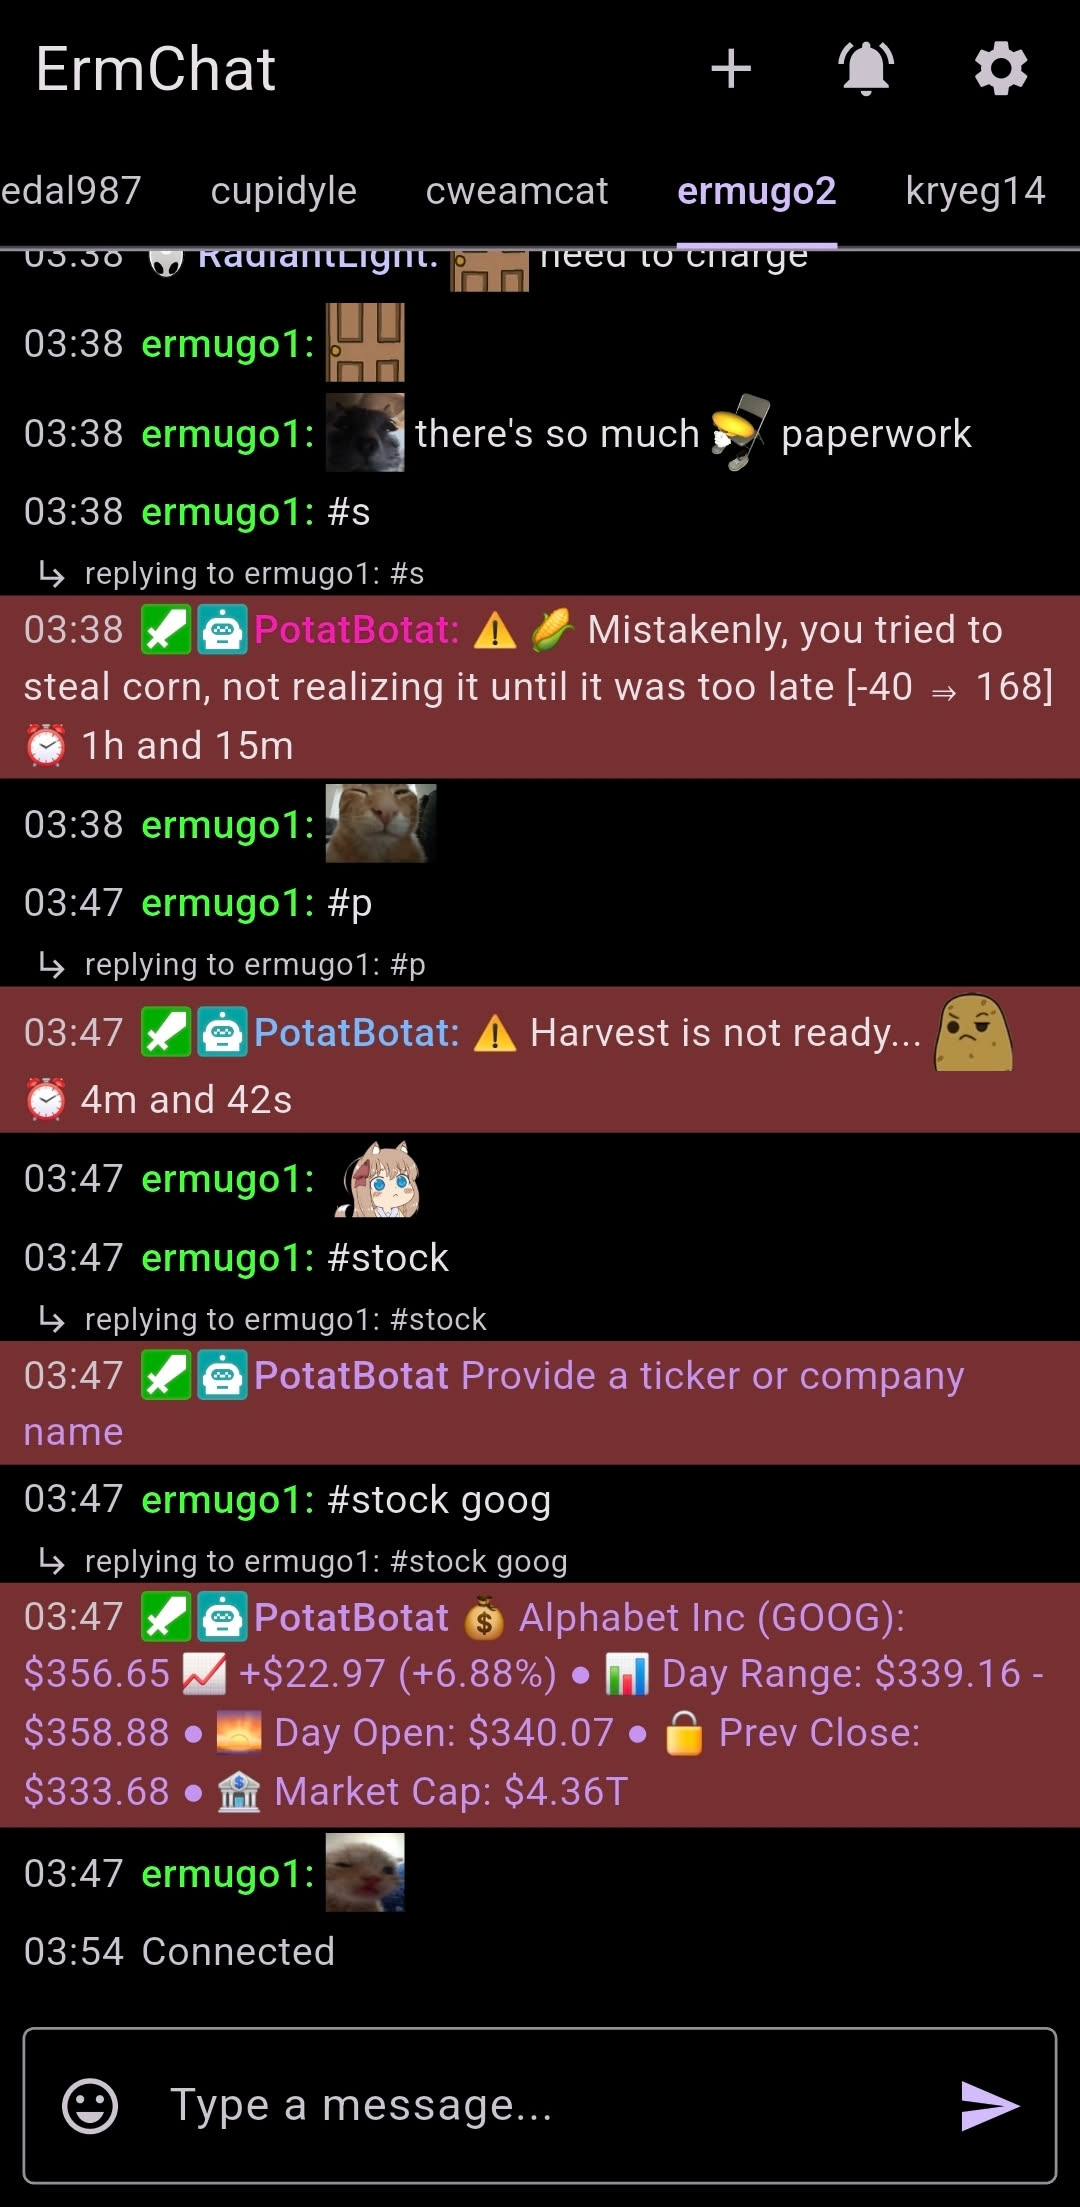
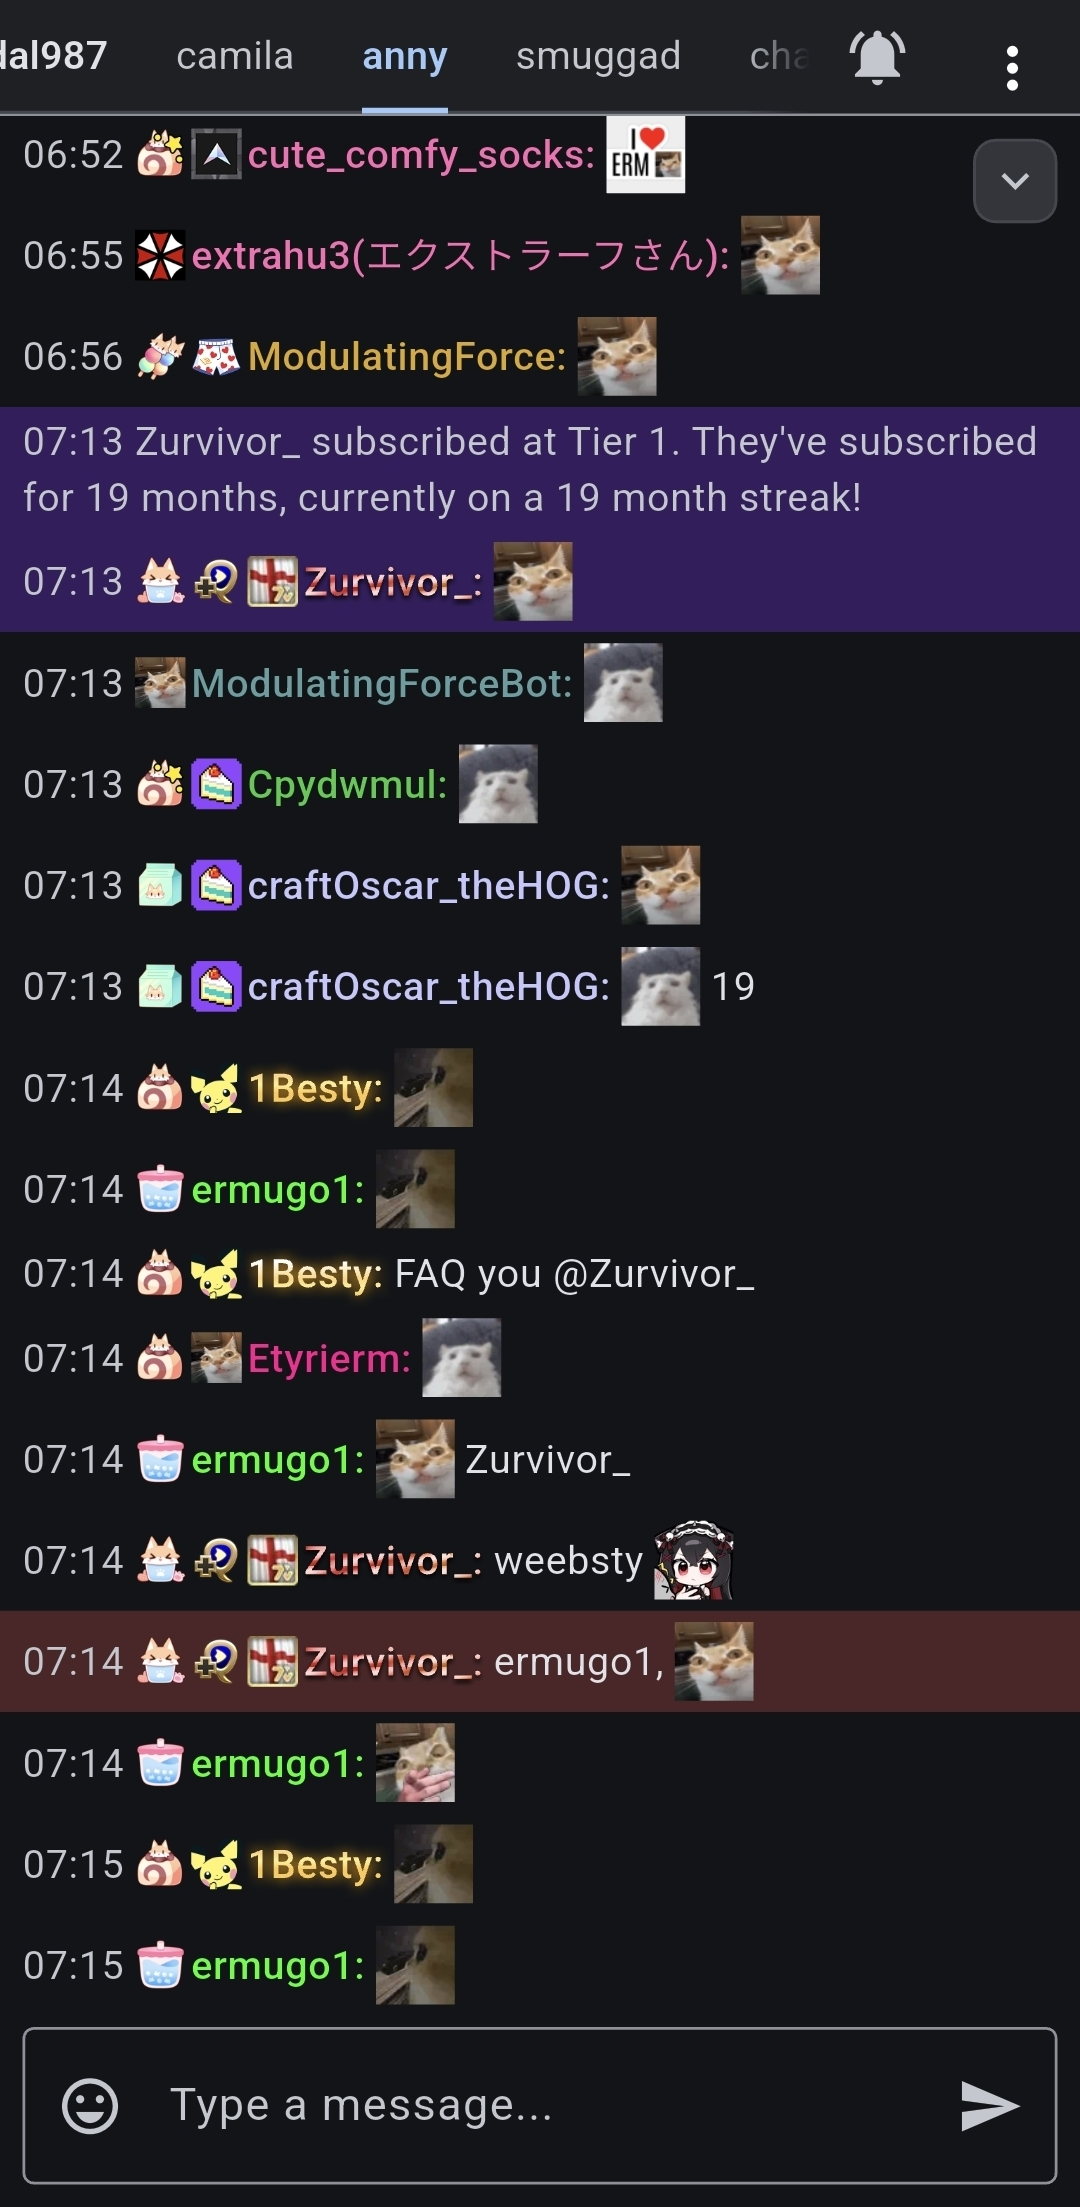
update README

diff --git a/README.md b/README.md
@@ -1,86 +1,107 @@
-# ErmChat
+<p align="center">
+  <img src="assets/erm.png" width="96" alt="ErmChat icon">
+</p>
 
-A mobile Twitch chat app built with Flutter.
+<h1 align="center">ErmChat</h1>
 
-ErmChat is a DankChat-inspired chat client with more features, built for multi-platform. If you've had experience with other chat clients, this one is similar with some fun features stapled onto it, and a bit less polish. I made this because Chatsen didn't have the "feel" I liked, and I wanted a good alternative to it on iOS.
+<p align="center">
+  A Twitch chat app for Android and iOS.
+</p>
 
-Credit to NobleTrash38 / NobleTrash for inspiring this project!
+<p align="center">
+  <a href="https://github.com/banan-guh/ErmChat/releases/latest"><img src="https://img.shields.io/github/v/release/banan-guh/ErmChat?include_prereleases&label=release" alt="Latest release"></a>
+  <img src="https://img.shields.io/badge/platform-Android%20%7C%20iOS-blue" alt="Platforms">
+  <a href="LICENSE"><img src="https://img.shields.io/github/license/banan-guh/ErmChat" alt="License"></a>
+  <a href="https://testflight.apple.com/join/NUUDJ5qY"><img src="https://img.shields.io/badge/iOS_beta-TestFlight-0D96F6" alt="iOS beta on TestFlight"></a>
+  <a href="https://f-droid.org/"><img src="https://img.shields.io/badge/F--Droid-pending-lightgrey?logo=fdroid&logoColor=white" alt="F-Droid: pending"></a>
+  <a href="https://discord.gg/asWuEHW359"><img src="https://img.shields.io/badge/Discord-join-5865F2?logo=discord&logoColor=white" alt="Discord"></a>
+</p>
 
-Check [TODO.md](TODO.md) for the roadmap. Found a bug or want a feature? Open an issue or submit a PR (see [RULES.md](RULES.md) first for commit style and ground rules).
+<p align="center">
+  <a href="https://play.google.com/store/apps/details?id=io.github.bananguh.ErmChat"><img src="assets/badges/google-play.png" height="48" alt="Get it on Google Play"></a>
+  <!-- Add appstore badge when listed (AppStore nobletrash38) -->
+</p>
+
+<p align="center">
+  <img src="fastlane/metadata/android/en-US/images/phoneScreenshots/screenshot1.jpeg" width="190" alt="Chat with a sub notice">
+  <img src="fastlane/metadata/android/en-US/images/phoneScreenshots/screenshot2.jpeg" width="190" alt="Chat with the stream open">
+  <img src="fastlane/metadata/android/en-US/images/phoneScreenshots/screenshot3.jpeg" width="190" alt="Chat with a deleted message and a timeout">
+  <img src="fastlane/metadata/android/en-US/images/phoneScreenshots/screenshot4.jpeg" width="190" alt="Emote settings">
+</p>
 
 ## Features
 
-**Chat**
-- Tabbed multi-channel chat with swipeable views and rearrangeable channel bar
-- Multi-account login with a switcher in settings
-- Messages over IRC
-- Reply threads with inline view (threads persist until last child goes over max msg threshold!! even when they disappear, you can see old threads)
-- Mentions / whispers panel
-- User profiles: tap a username for a bottom sheet with mod actions, follow age, and warning/ban history where you moderate, plus Mention / Whisper / Block / Report
-- System messages for subs, cheers, raids, bans, timeouts, announcements (subs/bits/raids highlight with the accent)
-- Shared chat support with spotlight / fade / hide modes for foreign messages
-- Phrase muting and regex ping rules (hide or highlight by keyword)
-- Slow-mode countdown on the input hint
-- Chat room state below the input (followers-only, emote-only, sub-only, live viewer #)
-- Clickable links, message timestamps with customizable formats
-- Configurable message cutoff and recent-history limit
-- Unread indicators, `/me` actions, message bypass for spam
+**Emote cache:** Novel cache system, so you don't need to re-download emotes every single time you restart the app.
 
-**Emotes & badges**
-- Emotes from Twitch, BTTV, FFZ, and 7TV with zero-width overlay support
-- Per-provider emote visibility toggles
-- Badges for mods, VIPs, subscribers, plus 3rd party badges (BTTV donor, FFZ mod/VIP, 7TV)
-- 7TV animated username paints rendered in chat
-- Emote and username autocomplete
-- Emote menu with provider tabs and a detail sheet (copy / share)
-- 7TV live emote updates via WebSocket
+**Data saver:** With the new emote cache, going on an excursion no longer makes a massive dent in your data. Customizable of course.
 
-**Commands**
-- 41 slash commands routed through the Twitch Helix API: `/ban`, `/timeout`, `/unban`, `/untimeout`, `/color`, `/delete`, `/clear`, `/announce` + color variants, `/mod`, `/vip`, chat modes (`/slow`, `/followers`, `/emoteonly`, `/subscribers`, `/r9kbeta`, `/uniquechat` + off variants), `/shoutout`, `/raid`, `/shield`, `/commercial`, `/marker`, `/w`, `/block`, `/unblock`, and more
-- `/` autocomplete for every command (permissions checked server-side)
-- Command macros with `{1} {2} {n+}` placeholder expansion, stored per account
-- DankChat-style error notices for failures
+**Threads:** Can be saved, and persist for as long as the latest message exists. Revisit old threads whenever you want.
 
-**Broadcaster widgets**
-- Hype train, poll, and prediction cards rendered in a swipeable cutout above chat (for the broadcaster's own channels, read-only)
+**Split links:** Chatters split links to get past filters. ErmChat joins them for you to save a bit of hassle.
 
-**Mod view**
-- Queue (allow/deny with category filter and inline timeout/ban), Activity feed, Users (bans, warnings, flagged users, mod/vip rosters), Modes, unban Requests inbox, public blocked Terms, AutoMod Setup levels
-- Message long-press and user cards expose Timeout / Delete / Warn / Ban / Unban / Shoutout (offline-friendly where you moderate)
-- Channel tab for the broadcaster: banned list, raid/commercial/marker actions, poll/prediction controls, Channel Points queue (rewards this app created are manageable, others read-only)
+**7TV integration:** 7tv name paints are supported, along with personal emotes, and emotes are updated live.
 
-**Customization & settings**
-- Dark mode toggle, true-dark, accent color picker
-- Timestamp format picker, keep-screen-on, custom ping highlights
-- Per-channel chat analytics (total messages, unique chatters, msgs/min, top chatters/emotes/words, bans/timeouts)
-- Background keepalive and mention push notifications (Android ONLY! iOS is still unpolished)
-- EXIF metadata stripped from image uploads before they go out
-- "Connected as {login}" account display, paste-token or browser OAuth login
+**Media embeds:** You can show images from some popular CDNs inline without having to leave the app.
 
-## Getting started (for people who clone the repo for their own use)
+**GIFs:** Official twitch GIFs are supported (view-only).
 
-1. Clone the repo: `git clone <repo-url>`.
-2. Create a Twitch app at https://dev.twitch.tv/console/apps and get a client ID.
-3. Open `lib/twitch_config.dart` and put it there.
-4. NOTE: redirect URI from `lib/twitch_config.dart` must match EXACTLY with what's in your twitch dev console. even / count.
-5. Android: JDK 17, 21, or 26 all work (CI uses Zulu 17), plus the standard
-   Android NDK, then run the app:
-   `flutter run`
-6. iOS: install pods first:
-   `pod install` inside `ios/`, then `flutter run`
+**Compact layout:** For small screens: collapse padding and headers to squeeze a bit more real estate for chat.
 
-`flutter test` and `flutter analyze` need no extra setup.
+**Mod view:** AutoMod queue, unban requests, blocked terms, warnings, suspicious users and a mod activity feed. Broadcasters also get Channel Points redemptions, polls, predictions, raids and markers.
 
-## Note for what the fastlane folder is
+**Chat analytics:** Per channel msgs/min, chatter list, top chatters, most used emotes/words, bans, timeouts.
 
-It's just for the F-droid publication. if you want to clone this and put it on F-droid, you need the changelogs folder to have these txt files:
-10[].txt
-20[].txt
-40[].txt
+**Liquid glass:** (opt-in, experimental, it's quite heavy so beware).
 
-(the [] is the "+N" you have in pubspec, e.g. v0.5.8+14). Make sure you update this along with pubspec every update you push.
-You can delete old changelogs, they aren't necessary to keep around. Reason for 3 different changelogs is just the split-ABI structure.
+**Performance:** A lot of work has gone into optimizing for battery life and fps. However, this is a heavy app, so there are lots of settings to disable or reduce the amount of battery-heavy work.
+
+**Accessibility:** TTS, line highlighting, font size, emote freeze. I'll get to translations soon, and maybe a reduced motion mode.
+
+<details>
+<summary><b>Everything else</b></summary>
+
+- Emotes from Twitch, BTTV, FFZ and 7TV, third-party badges
+- Multiple channels in swipeable tabs, multiple accounts
+- Mentions and whispers panel, user cards with a list of messages from that user
+- Slash commands with autocomplete, and your own command macros
+- Highlights and pings (customizable)
+- Shared chat with spotlight feature (see own chat better, customizable in settings)
+- Stream player with picture-in-picture
+- Image uploads with EXIF stripping
+- Chat history on join, slow mode / timeout countdown, live channel status
+- Backgrounding and mention notifications (Android only, iOS coming soon)
+- Themes, true black, accent colors, timestamp formats
+- Lots of customizability in settings
+
+</details>
+
+## Install
+
+**Android:** get it on [Google Play](https://play.google.com/store/apps/details?id=io.github.bananguh.ErmChat), or download the universal APK from [Releases](https://github.com/banan-guh/ErmChat/releases/latest). Pending F-Droid.
+
+**iOS:** join the beta on [TestFlight](https://testflight.apple.com/join/NUUDJ5qY). You need TestFlight (obviously). An App Store release is planned.
+
+No account needed to read chat anonymously, but signing in is recommended for the full feature set.
+
+## Privacy
+
+ErmChat communicates directly with Twitch servers, and uses (anonymous) emote providers / recent-messages for chat history. Media uploader is third-party. Details: [privacy policy](https://banan-guh.github.io/ErmChat/).
+
+## Feedback
+
+Any feedback, no matter what, is VERY much appreciated. You have multiple ways to give it:
+
+- Create an issue on GitHub (here), bugreport or feature request
+- Create an issue on [Discord](https://discord.gg/asWuEHW359), or even just send something in general
+- Come to my twitch channel (not live, only chat) at #ermugo2 and tell me directly - join the channel in ermchat!
+- Send an email to kuhwalri.contact@gmail.com
+
+An in-app bug reporter is on the way, but it's not finished yet.
+
+## Credits
+
+Inspired by NobleTrash, [DankChat](https://github.com/flxrs/DankChat) and [Chatsen](https://github.com/chatsen/chatsen). @stewlyblume is the cat.
 
 ## License
 
-MIT
+[MIT](LICENSE). Some logic (and the UI style) is derived from DankChat. See [THIRD_PARTY_LICENSES](THIRD_PARTY_LICENSES).
